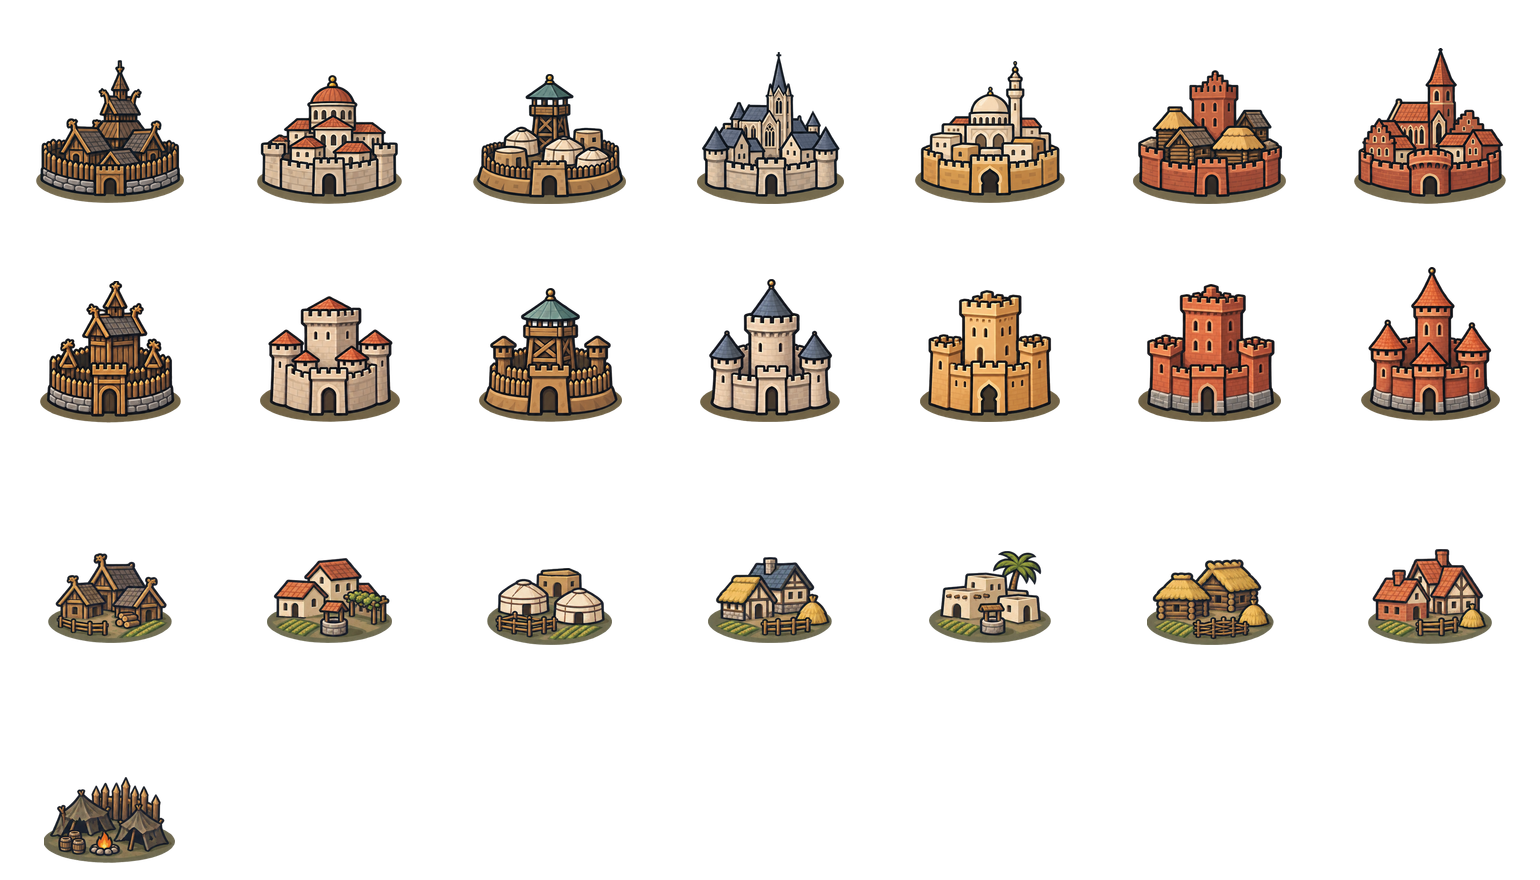
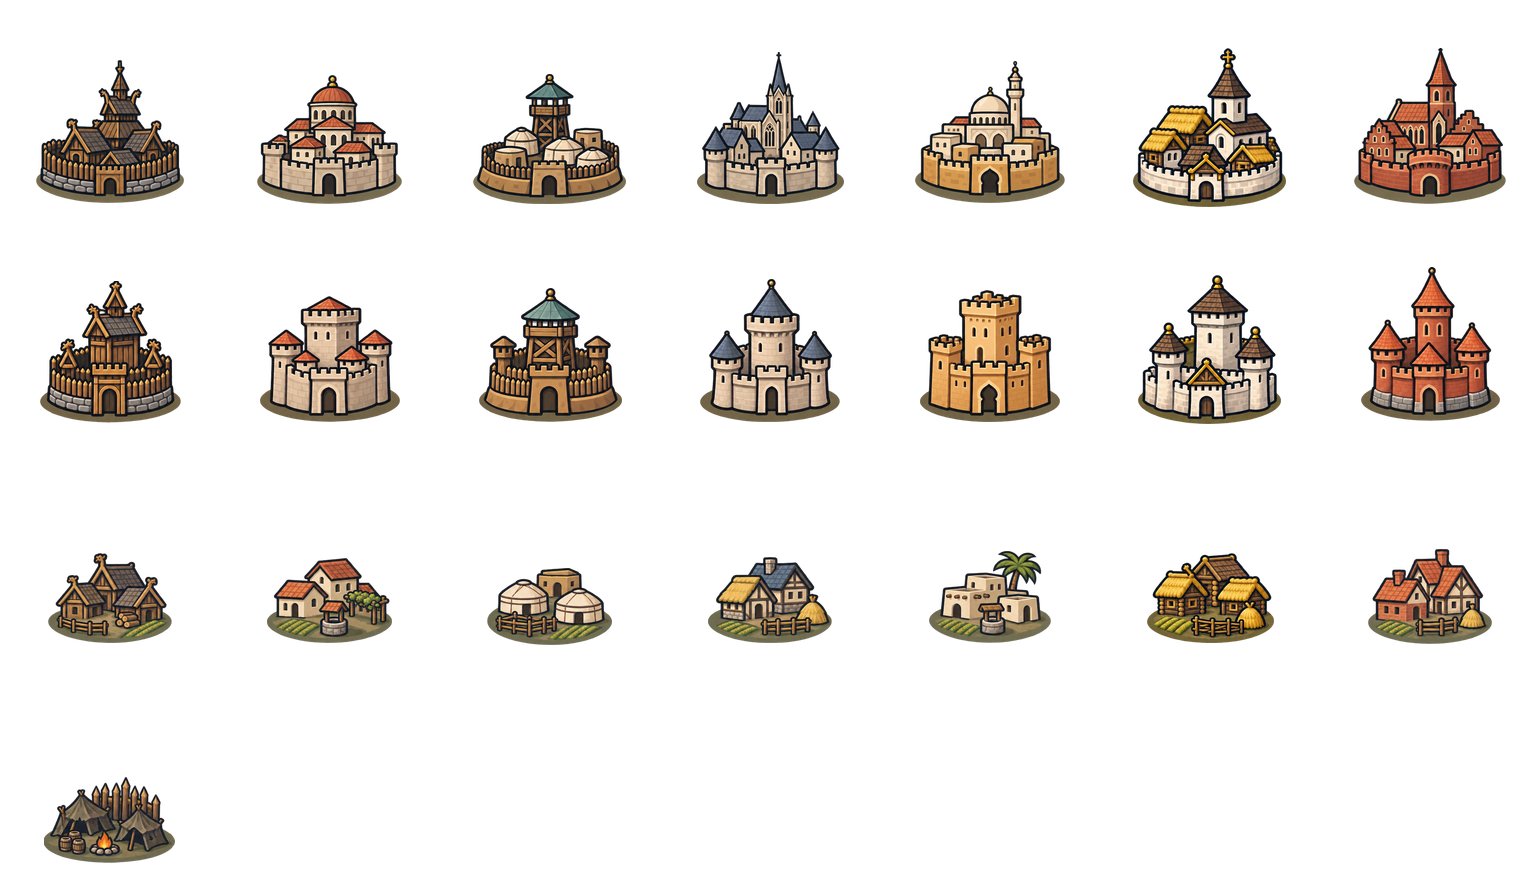
Поселения: Доминион в белёном камне и золоте, не красным кирпичом, как Пакт (#254)
Claude-Session: https://claude.ai/code/session_0112NLBndME8PiXpuX2g7p2P

Changed region(s): [[0.7169, 0.0614, 0.8416, 0.2455], [0.7169, 0.3068, 0.8416, 0.4909], [0.7481, 0.6136, 0.8416, 0.7364]]

diff --git a/godot/tools/map/settlement_source/prompts.md b/godot/tools/map/settlement_source/prompts.md
@@ -15,3 +15,7 @@
    SAME overall size»), старые иконки вторым. «A castle is a military stronghold, NOT a town: no houses and no church».
 3. `villages.png` — вложения те же. «NOT fortified: no walls, no towers», «about two thirds of the width of a town»;
    восьмая клетка — логово разбойников: «three ragged dark canvas tents, a crude palisade of sharpened stakes, a campfire».
+4. `dominion.png` — Доминион перерисован отдельно (в первом заходе вышел красным кирпичом, как Пакт): вложения
+   `towns.png`, `castles.png`, `villages.png`, «redraw ONLY the sixth culture … NO red brick at all», белёный камень,
+   тёмное дерево, золотистая солома и гонт. Урок: каждой культуре в промпте давать свои материалы и цвета, не
+   повторяя соседей (цвета стяга фракции — хорошая подсказка).
